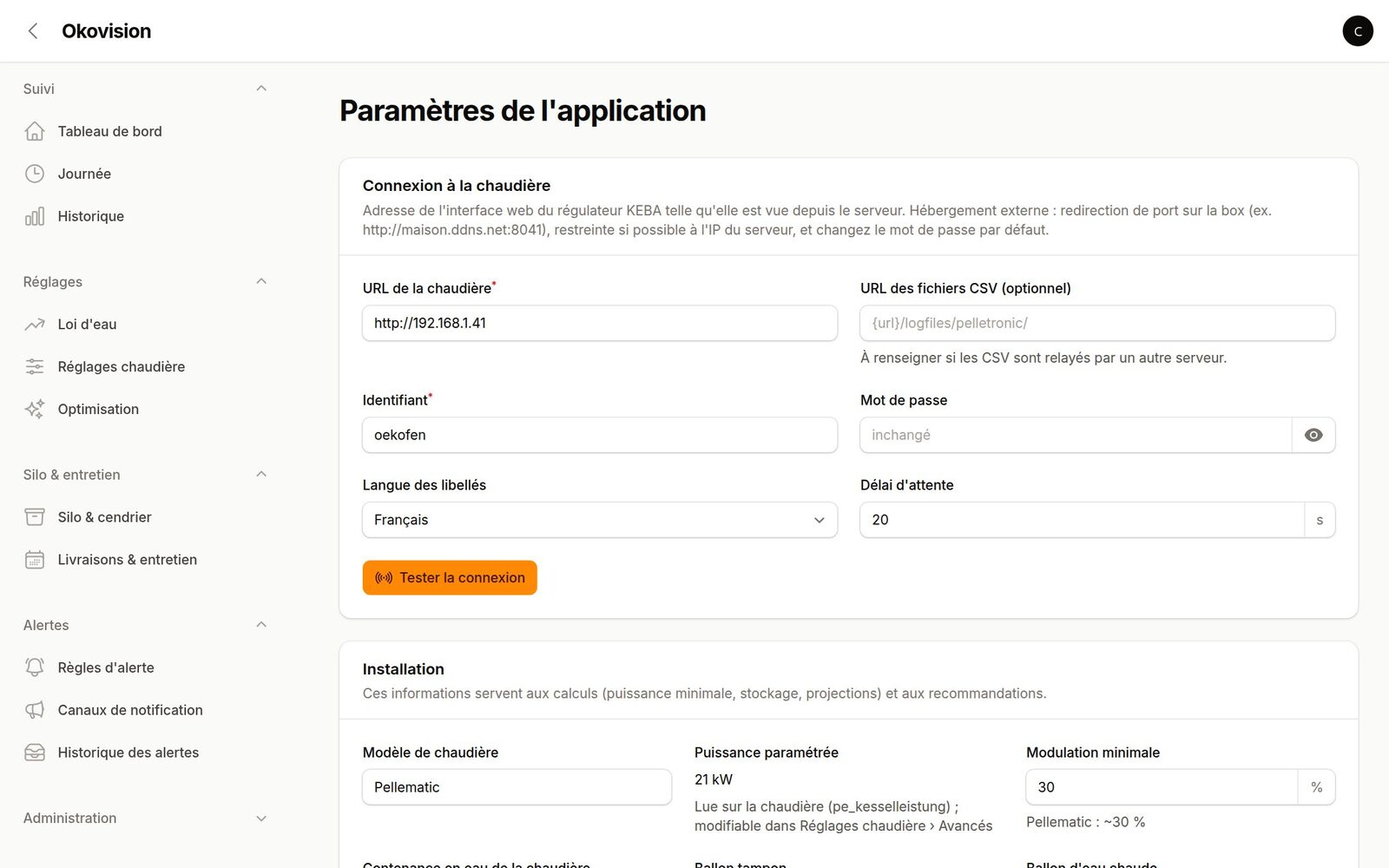
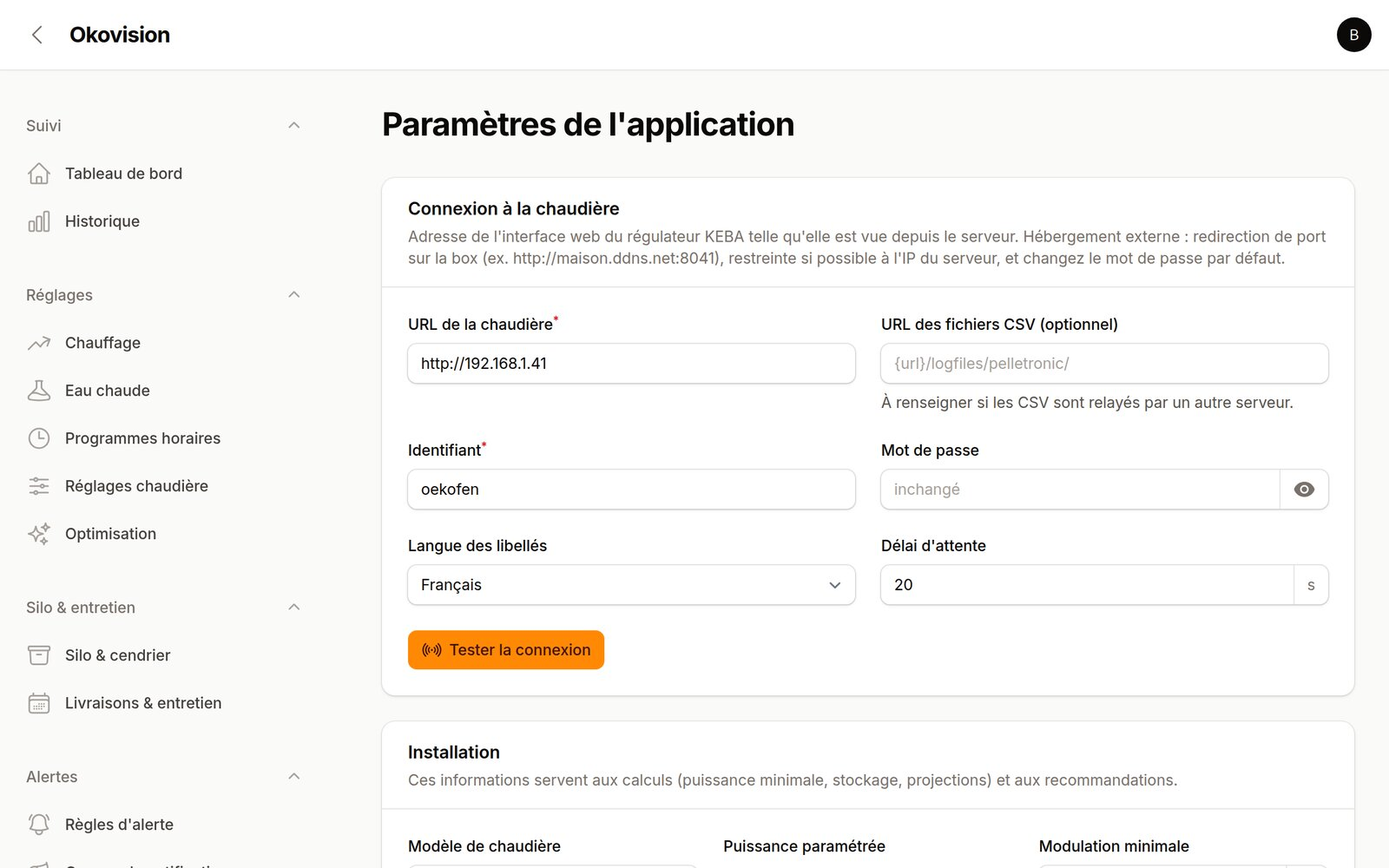
Site : copies d'écran à jour, textes de réglage enrichis
- Copies d'écran refaites sur l'interface actuelle (échelle 2, dates en
  français) ; nouvelles images de la journée de chauffage et du ballon
  d'eau chaude ; tableau de bord avec les indicateurs sur deux lignes.
- Présentation : état de la chaudière, frise des états, blocs
  « Comprendre quand et pourquoi le chauffage s'arrête », « Régler la
  loi d'eau », « Eau chaude et légionelles », réglages commentés.
- Régler sa chaudière : thermostat d'ambiance et limites de chauffe
  (règles du manuel ÖkoFEN, exemple de la coupure de 16 h), programmes
  horaires, influence de la sonde (coefficient, influence à 0 pendant le
  réglage), gestion du ballon (plages, postfonctionnement, priorité,
  65 °C), charges d'eau chaude à froid ; sources ÖkoFEN ajoutées.

diff --git a/site/reglage.html b/site/reglage.html
@@ -4,13 +4,13 @@
 <meta charset="utf-8">
 <meta name="viewport" content="width=device-width, initial-scale=1">
 <title>Régler sa chaudière à granulés – Okovision</title>
-<meta name="description" content="Principes de réglage d'une chaudière à granulés Okofen : loi d'eau, sonde d'ambiance, cycles courts, hystérésis, puissance, ballon tampon, eau chaude et légionelles. Avec sources.">
+<meta name="description" content="Principes de réglage d'une chaudière à granulés Okofen : loi d'eau, sonde d'ambiance, thermostat et limites de chauffe, programmes horaires, cycles courts, puissance, ballon tampon, eau chaude et légionelles. D'après le manuel ÖkoFEN et des mesures réelles.">
 <link rel="canonical" href="https://bertrandgorge.github.io/okovision/reglage.html">
 <meta property="og:type" content="website">
 <meta property="og:site_name" content="Okovision">
 <meta property="og:locale" content="fr_FR">
 <meta property="og:title" content="Régler sa chaudière à granulés – Okovision">
-<meta property="og:description" content="Principes de réglage d'une chaudière à granulés Okofen : loi d'eau, sonde d'ambiance, cycles courts, hystérésis, puissance, ballon tampon, eau chaude et légionelles. Avec sources.">
+<meta property="og:description" content="Principes de réglage d'une chaudière à granulés Okofen : loi d'eau, sonde d'ambiance, thermostat et limites de chauffe, programmes horaires, cycles courts, puissance, ballon tampon, eau chaude et légionelles. D'après le manuel ÖkoFEN et des mesures réelles.">
 <meta property="og:url" content="https://bertrandgorge.github.io/okovision/reglage.html">
 <meta property="og:image" content="https://bertrandgorge.github.io/okovision/assets/og-image.jpg">
 <meta property="og:image:width" content="1200">
@@ -18,7 +18,7 @@
 <meta property="og:image:alt" content="Okovision : tableau de bord de suivi d'une chaudière à granulés Okofen">
 <meta name="twitter:card" content="summary_large_image">
 <meta name="twitter:title" content="Régler sa chaudière à granulés – Okovision">
-<meta name="twitter:description" content="Principes de réglage d'une chaudière à granulés Okofen : loi d'eau, sonde d'ambiance, cycles courts, hystérésis, puissance, ballon tampon, eau chaude et légionelles. Avec sources.">
+<meta name="twitter:description" content="Principes de réglage d'une chaudière à granulés Okofen : loi d'eau, sonde d'ambiance, thermostat et limites de chauffe, programmes horaires, cycles courts, puissance, ballon tampon, eau chaude et légionelles. D'après le manuel ÖkoFEN et des mesures réelles.">
 <meta name="twitter:image" content="https://bertrandgorge.github.io/okovision/assets/og-image.jpg">
 <meta name="theme-color" content="#ea6a0c">
 <link rel="icon" href="assets/favicon.svg" type="image/svg+xml">
@@ -42,7 +42,8 @@
     <p class="eyebrow">Guide</p>
     <h1>Les principes de réglage d'une chaudière à granulés</h1>
     <p class="lead">Une chaudière à granulés est plus efficace et plus propre quand elle brûle longtemps à puissance stable.
-      Ce guide explique les réglages qui comptent : loi d'eau, sonde d'ambiance, cycles du brûleur, eau chaude.
+      Ce guide explique les réglages qui comptent : loi d'eau, sonde d'ambiance, ce qui arrête le chauffage, programmes horaires, cycles du brûleur, eau chaude.
+      Les règles du régulateur viennent du manuel ÖkoFEN du Pelletronic Touch, vérifiées sur les mesures d'une installation réelle.
       Les exemples portent sur le régulateur Okofen Pelletronic Touch, mais les principes valent pour la plupart des chaudières.</p>
   </div>
 
@@ -55,6 +56,8 @@
         <li><a href="#loi-d-eau">La loi d'eau</a></li>
         <li><a href="#methode">Méthode de réglage</a></li>
         <li><a href="#ambiance">Sonde d'ambiance</a></li>
+          <li><a href="#arret">Quand le chauffage s'arrête</a></li>
+          <li><a href="#programmes">Programmes horaires</a></li>
         <li><a href="#leviers">Limiter les cycles</a></li>
         <li><a href="#ecs">Eau chaude et légionelles</a></li>
         <li><a href="#entretien">Entretien</a></li>
@@ -79,7 +82,7 @@
           <tr><td>Post-combustion</td><td>Arrêt de la vis, puis ventilation pendant environ 15 minutes pour brûler les restes. Une partie de la chaleur du foyer part alors par la cheminée.</td></tr>
         </tbody>
       </table></div>
-      <figure class="shot"><img src="assets/img/journee-combustion.jpg" width="1584" height="674" loading="lazy" alt="Une journée d'hiver avec une vingtaine de cycles courts du brûleur">
+      <figure class="shot"><img src="assets/img/journee-combustion.jpg" width="1792" height="898" loading="lazy" alt="Une journée d'hiver avec une vingtaine de cycles courts du brûleur">
         <figcaption>Une journée d'hiver vue par Okovision : après la relance du matin, le brûleur enchaîne des cycles d'une vingtaine de minutes.</figcaption></figure>
 
       <h2 id="cycles">2. Pourquoi éviter les cycles courts</h2>
@@ -146,25 +149,38 @@
 
       <h2 id="methode">4. Méthode de réglage</h2>
       <ol class="steps">
-        <li><strong>Une seule modification par jour</strong>, par petits pas. La maison réagit lentement : il faut au moins 24 h pour juger un changement.</li>
+        <li><strong>Fixer d'abord la consigne confort</strong> : chaque degré de consigne décale toute la courbe de (1 + pente) °C.</li>
+          <li><strong>Une seule modification par jour</strong>, par petits pas. La maison réagit lentement : il faut au moins 24 h pour juger un changement.</li>
         <li><strong>Par temps doux (entre +5 et +15 °C), on règle le pied</strong> : pièce trop chaude, −2 à −5 °C ; pièce trop froide, +2 à +5 °C.</li>
         <li><strong>Par temps froid (sous +5 °C), on règle la pente</strong> : trop chaud, −0,1 à −0,2 ; trop froid, +0,1 à +0,2.</li>
-        <li>Pendant le réglage, réduire l'influence de la sonde d'ambiance pour voir l'effet de la courbe seule.</li>
+        <li><strong>Pendant le réglage, mettre l'influence de la sonde d'ambiance à 0</strong> : c'est elle qui masque les défauts de la courbe en ajoutant
+          ou retirant quelques degrés au départ. La pièce reflète alors la courbe seule. Relever l'hystérésis d'ambiance à 2–3 °C seulement si le thermostat
+          coupe le circulateur pendant l'essai (courbe trop haute). Une fois la pièce stable à la consigne, remettre l'influence à 2–3.</li>
         <li>Ouvrir en grand les robinets thermostatiques de la pièce de référence. Ils servent au réglage fin pièce par pièce, pas au réglage principal.</li>
         <li>Viser la <strong>température de départ la plus basse qui assure le confort</strong> : moins de pertes de distribution, une vanne mélangeuse moins sollicitée, une demande plus régulière.</li>
       </ol>
       <p>Un guide de SuisseEnergie estime qu'une courbe bien réglée économise 4 à 6 % d'énergie. Il recommande de régler une première fois par temps froid
         (un peu en dessous de 0 °C), puis par temps doux (un peu au-dessus de 10 °C).</p>
       <div class="tip">
-        <p>Dans Okovision, la page <em>Loi d'eau</em> affiche les consignes réellement calculées par la chaudière, colorées selon l'écart d'ambiance.
+        <p>Dans Okovision, la page <em>Chauffage</em> affiche les consignes réellement calculées par la chaudière, colorées selon l'écart d'ambiance.
           Elle propose une <strong>courbe apprise</strong> (pente et pied) qui reproduit les besoins observés, en tenant compte de la correction par la sonde d'ambiance.</p>
       </div>
-      <figure class="shot"><img src="assets/img/courbe-apprise.jpg" width="774" height="1058" loading="lazy" alt="Panneau « Courbe apprise » : pente 1,6, pied 33,8 °C et méthode de réglage" style="max-width:420px">
+      <figure class="shot"><img src="assets/img/courbe-apprise.jpg" width="872" height="924" loading="lazy" alt="Panneau « Courbe apprise » : pente et pied proposés d'après les consignes réellement calculées" style="max-width:420px">
       </figure>
 
       <h2 id="ambiance">5. La sonde d'ambiance</h2>
       <p>Avec une sonde d'ambiance, le paramètre <strong>influence</strong> corrige le départ selon l'écart entre la consigne et la température mesurée.
-        Avec une influence de 3, une pièce à 19 °C pour 20 °C de consigne ajoute 3 °C au départ.</p>
+        C'est un <strong>coefficient sans unité</strong> : des degrés de départ par degré d'écart, dans les deux sens. Avec une influence de 3, une pièce
+        à 19 °C pour 20 °C de consigne ajoute 3 °C au départ ; une pièce à 20,5 °C en retire 1,5 °C.</p>
+      <div class="table-wrap"><table>
+        <thead><tr><th>Influence</th><th>Effet</th></tr></thead>
+        <tbody>
+          <tr><td>0</td><td>La sonde n'agit plus sur le départ (elle sert encore au thermostat, voir plus bas). À utiliser pendant le réglage de la loi d'eau.</td></tr>
+          <tr><td>1 (usine)</td><td>Correction douce, si la loi d'eau est déjà juste.</td></tr>
+          <tr><td>2–3</td><td>Correction franche, utile avec une sonde bien placée.</td></tr>
+          <tr><td>4–5</td><td>Risque d'oscillations : la pièce réagit avec plusieurs heures de retard.</td></tr>
+        </tbody>
+      </table></div>
       <p>La sonde doit seulement <strong>affiner</strong>. Si elle corrige beaucoup en permanence, c'est que la courbe est mal réglée.
         Sur l'installation d'exemple, la sonde ajoutait en moyenne +4,9 °C au départ par 0 °C extérieur : la pente était trop faible.
         Une courbe bien réglée laisse un écart proche de zéro.</p>
@@ -173,7 +189,58 @@
       <p>Avec des convecteurs à ailettes, peu inertes et dont la puissance dépend fortement de la température de l'eau, les pentes usuelles vont de 1,2 à 1,8.
         Un plancher chauffant demande une pente beaucoup plus faible.</p>
 
-      <h2 id="leviers">6. Limiter les cycles courts</h2>
+      <h2 id="arret">6. Quand le chauffage s'arrête : thermostat et limites de chauffe</h2>
+      <p>Même en pleine plage de confort, le circulateur peut rester arrêté pendant des heures. Deux règles du régulateur en décident,
+        et elles s'ajoutent : le chauffage ne tourne que si l'extérieur est sous la limite <em>et</em> la pièce sous son seuil de relance (manuel ÖkoFEN E1389FR, p. 21 et 23).</p>
+      <h3>Le thermostat d'ambiance (hystérésis d'ambiance)</h3>
+      <p>Avec une sonde d'ambiance, le circuit s'arrête quand la pièce dépasse <strong>consigne + hystérésis</strong>, et ne repart que
+        lorsqu'elle est redescendue <strong>1 °C sous ce seuil</strong>. Le tunnel garde toujours 1 °C de large ; l'hystérésis le déplace seulement.</p>
+      <div class="table-wrap"><table>
+        <thead><tr><th>Consigne 20 °C</th><th>Arrêt</th><th>Relance</th></tr></thead>
+        <tbody>
+          <tr><td>Hystérésis 0 (usine)</td><td>20,0 °C</td><td>19,0 °C</td></tr>
+          <tr><td>Hystérésis 1 °C</td><td>21,0 °C</td><td>20,0 °C</td></tr>
+          <tr><td>Hystérésis 1,5 °C</td><td>21,5 °C</td><td>20,5 °C</td></tr>
+        </tbody>
+      </table></div>
+      <p>À 0, l'hystérésis n'est pas « désactivée » : le circuit se coupe dès la consigne atteinte et attend que la pièce ait perdu un degré.
+        Le manuel ne la conseille à 0 qu'en cas de forts apports dans la pièce de la sonde (soleil, poêle) ; sinon, une valeur plus grande est recommandée.
+        Avec 1 à 1,5 °C, le thermostat ne coupe plus qu'exceptionnellement et c'est la loi d'eau, affinée par la sonde, qui tient la pièce.
+        Pour garder la même température moyenne, on baisse alors la consigne d'environ un demi-degré.</p>
+      <h3>Les limites de chauffe</h3>
+      <p>Indépendamment de la pièce, le circuit s'arrête quand la <strong>température extérieure moyennée</strong> dépasse la limite de la plage en cours
+        (confort ou réduit), et ne repart que <strong>2 °C en dessous</strong>. La moyenne glissante (60 min par exemple) évite de couper au moindre rayon de soleil sur la sonde.</p>
+      <p>Pour la limite de réduit, le guide d'entretien ÖkoFEN donne ces repères : il est souvent inutile de chauffer la nuit, puisque la maison est chaude
+        en début de nuit et que la chaudière redémarre de toute façon avant la plage de confort.</p>
+      <div class="table-wrap"><table>
+        <thead><tr><th>Habitat</th><th>Limite de réduit</th></tr></thead>
+        <tbody>
+          <tr><td>Fortement isolé, forte inertie</td><td>0 °C</td></tr>
+          <tr><td>Bien isolé</td><td>5 °C</td></tr>
+          <tr><td>Moyennement isolé</td><td>10 °C</td></tr>
+          <tr><td>Peu ou très peu isolé</td><td>14 °C</td></tr>
+        </tbody>
+      </table></div>
+      <div class="tip">
+        <p><strong>Exemple réel.</strong> Une coupure de 30 minutes ajoutée au programme (16:00–16:30) a basculé le circuit en réduit (consigne 18 °C, pièce à 19,6 °C : arrêt).
+          À 16:30, retour en confort à 20 °C avec une hystérésis à 0 : relance seulement sous 19 °C. La pièce est restée entre 19,2 et 19,6 °C, et le chauffage
+          ne s'est pas rallumé de la soirée ni de la nuit. Le programme soirée n'y pouvait rien : il ne fait que forcer le confort.</p>
+      </div>
+      <figure class="shot"><img src="assets/img/chauffage-journee.jpg" width="1792" height="1554" loading="lazy" alt="Journée de chauffage : la pièce reste au-dessus du seuil de relance après la coupure de 16:00, le circulateur ne repart pas">
+        <figcaption>Cette journée dans Okovision : à 16:00, le passage en réduit arrête la pompe (frise du bas) ; à 16:30, la pièce est au-dessus de la ligne de relance et le chauffage ne repart pas.</figcaption></figure>
+
+      <h2 id="programmes">7. Programmes horaires</h2>
+      <ul>
+        <li><strong>Ne pas hacher les plages</strong> de confort et de réduit (guide d'entretien ÖkoFEN). Chaque bascule peut couper le circuit, qui ne repart pas forcément,
+          et chaque relance coûte un démarrage du brûleur. Sur plancher chauffant, des plages d'au moins 6 h.</li>
+        <li><strong>Inutile d'avancer le début d'une plage</strong> : la durée d'anticipation fait démarrer la chauffe assez tôt pour être à la consigne à l'heure indiquée (manuel E1389FR, p. 23).
+          Si la maison est froide au réveil, allongez l'anticipation plutôt que la plage.</li>
+        <li><strong>Confort au plus 21 °C</strong> : chaque degré de plus coûte environ 7 % de granulés. Écart confort / réduit d'au plus 5 °C sur radiateurs, 2 °C sur plancher chauffant.</li>
+        <li>Le <strong>programme soirée</strong> force le confort jusqu'à une heure donnée puis revient seul au programme ; le <strong>programme vacances</strong> remplace
+          le programme par une température réduite entre deux dates, à faire finir 24 h avant le retour.</li>
+      </ul>
+
+      <h2 id="leviers">8. Limiter les cycles courts</h2>
       <p>Du plus simple au plus structurant :</p>
       <h3>Élargir l'hystérésis de redémarrage</h3>
       <p>Sans ballon tampon, la seule réserve d'énergie est l'eau de la chaudière. Avec une coupure à 80 °C et une hystérésis de 5 K, le brûleur redémarre dès 75 °C.
@@ -185,8 +252,11 @@
         La chaudière peut alors brûler en continu une grande partie de la saison. Ce réglage technicien se fait avec l'installateur,
         en vérifiant la puissance nécessaire par grand froid et pour la relance après un réduit de nuit.</p>
       <h3>Regrouper l'eau chaude</h3>
-      <p>Une charge d'eau chaude isolée provoque un cycle complet, surtout en été. Une hystérésis ECS plus large (10 K) et une ou deux plages horaires
-        alignées sur les heures de chauffage regroupent les besoins dans un même cycle.</p>
+      <p>Une charge d'eau chaude isolée provoque un cycle complet, avec un allumage à froid. Sur l'installation d'exemple, à mi-saison,
+        <strong>21 des 48 charges d'un mois</strong> ont démarré la chaudière pour le ballon seul, parfois pour quelques minutes de combustion.
+        Une hystérésis ECS plus large (10 K), des plages courtes calées sur le démarrage du chauffage, et une seule charge par jour les jours doux
+        regroupent les besoins dans les cycles du chauffage. Avec la priorité ECS sur « Arrêt », ballon et chauffage sont alimentés ensemble,
+        ce qui allonge les combustions.</p>
       <h3>Utiliser l'inertie de la maison</h3>
       <p>À mi-saison, on peut alterner de longues périodes de chauffe et des pauses, tant que l'ambiance reste dans une bande de confort.
         Les murs servent alors de stockage. Okovision propose ce pilotage « par blocs » en option expérimentale, désactivée et en simulation par défaut.</p>
@@ -195,10 +265,10 @@
         La règle usuelle est de <strong>25 à 50 L par kW</strong>. En Allemagne, les aides publiques aux chaudières à granulés exigent au moins 30 L par kW.
         Un ballon de 600 L chargé entre 60 et 80 °C stocke environ 14 kWh. L'investissement est réel (coût, place, pertes à bien isoler) :
         il se justifie surtout quand la chaudière est nettement surdimensionnée.</p>
-      <figure class="shot"><img src="assets/img/besoin-puissance.jpg" width="774" height="704" loading="lazy" alt="Besoin de la maison par température extérieure, comparé aux puissances de la chaudière" style="max-width:520px">
+      <figure class="shot"><img src="assets/img/besoin-puissance.jpg" width="872" height="986" loading="lazy" alt="Besoin de la maison par température extérieure, comparé aux puissances de la chaudière" style="max-width:520px">
         <figcaption>Le besoin moyen (orange) passe sous la puissance minimale (rouge) dès 9 °C extérieur : c'est la zone des cycles courts.</figcaption></figure>
 
-      <h2 id="ecs">7. Eau chaude sanitaire et légionelles</h2>
+      <h2 id="ecs">9. Eau chaude sanitaire et légionelles</h2>
       <p>Les légionelles se développent entre 25 et 45 °C environ. Une eau chaude stockée à 40 °C se situe dans cette plage. Les recommandations sanitaires françaises :</p>
       <ul>
         <li>Produire l'eau chaude à <strong>55 °C au moins</strong> en sortie de ballon, en permanence.</li>
@@ -206,9 +276,25 @@
           La fonction anti-légionelles du Touch le fait automatiquement, par exemple une fois par semaine.</li>
         <li>Limiter l'eau à <strong>50 °C aux points de puisage</strong> des salles de bains (mitigeur thermostatique) pour éviter les brûlures.</li>
       </ul>
-      <p>Une consigne plus haute stocke aussi plus d'énergie dans le ballon, ce qui espace les charges en été.</p>
+      <p>Une consigne plus haute stocke aussi plus d'énergie dans le ballon, ce qui espace les charges en été.
+        Le cycle anti-légionelles du Touch monte le ballon à <strong>65 °C</strong> le jour choisi (manuel E1389FR, p. 60).</p>
+      <h3>Comment la chaudière gère le ballon</h3>
+      <ul>
+        <li>Pendant une plage horaire, elle vise la <strong>consigne</strong> et relance une charge dès que le ballon passe sous <em>consigne − hystérésis</em>.
+          En dehors, elle ne recharge que sous la <strong>T mini</strong>, moins l'hystérésis : avec 30 °C et 10 K, le ballon peut descendre à 20 °C la nuit.</li>
+        <li>Contrairement au chauffage, <strong>il n'y a pas d'anticipation</strong> : la charge démarre au début de la plage, et le brûleur doit d'abord s'allumer.
+          Mesuré sur l'installation d'exemple : eau chaude environ 40 minutes après le début de plage (10 min chaudière chaude, plus d'une heure à froid).
+          Faites commencer la plage au moins trois quarts d'heure avant la première douche, et finir juste après la dernière, pour éviter une recharge inutile.</li>
+        <li>Le <strong>postfonctionnement</strong> laisse tourner la pompe du ballon après la charge (10 min par défaut) pour y vider la chaleur de la chaudière.
+          Sans ballon tampon, la chaudière est alors vers 80 °C : le ballon monte d'environ 9 K au-dessus de la consigne (61 °C pour 52 °C demandés).
+          C'est de l'énergie récupérée, et une désinfection gratuite ; un mitigeur thermostatique aux points de puisage limite le risque de brûlure.
+          Quand le chauffage tourne, 3 à 5 min suffisent : la chaleur résiduelle part dans les radiateurs.</li>
+        <li><strong>Priorité ECS</strong> sur « Marche » (usine) : le ballon d'abord, le chauffage coupé pendant la charge. Sur « Arrêt » : les deux ensemble.</li>
+      </ul>
+      <figure class="shot"><img src="assets/img/eau-chaude.jpg" width="1792" height="1378" loading="lazy" alt="Ballon d'eau chaude un jour de cycle anti-légionelles : consigne 65 °C pendant la plage, charges du ballon dans la frise">
+        <figcaption>Un jour de cycle anti-légionelles dans Okovision : consigne à 65 °C pendant la plage, seuil de relance 5 K plus bas, charges visibles dans la frise.</figcaption></figure>
 
-      <h2 id="entretien">8. Entretien</h2>
+      <h2 id="entretien">10. Entretien</h2>
       <ul>
         <li><strong>Entretien annuel</strong> par un professionnel : nettoyage, réglage de la combustion, contrôle.</li>
         <li><strong>Ramonage</strong> du conduit de fumée au moins une fois par an, parfois deux selon le règlement sanitaire départemental. Gardez le certificat.</li>
@@ -222,6 +308,18 @@
       </div>
 
       <h2 id="sources">Sources</h2>
+      <h3>Régulation ÖkoFEN Pelletronic Touch</h3>
+      <ul class="sources">
+        <li><span class="src-title">ÖkoFEN, « Manuel d'utilisation et d'installation Pelletronic Touch » (E1389FR, V2.00)</span> : modes, programmes, soirée et vacances,
+          courbe et limites de chauffe, anticipation, hystérésis d'ambiance, réglages ECS, règles système.
+          <a href="https://forums.futura-sciences.com/attachments/habitat-bioclimatique-isolation-chauffage/424788d1604928346-retours-dexperience-chaudieres-okofen-pelletronic-touch-compr.pdf">PDF</a>.</li>
+        <li><span class="src-title">ÖkoFEN, « Operating Manual AutoPellet PE(S)(K)(B) 10–56 », partie installateur (PE 567 USA 1.1)</span> :
+          <a href="https://www.maineenergysystems.com/wp-content/uploads/2015/11/TechnicianStartUpTouch.pdf">PDF</a>.</li>
+        <li><span class="src-title">ÖkoFEN France, « Guide pratique – Entretien annuel des chaudières PE(S)(K)(B) 8-56 »</span>, chapitre « Contrôles de la régulation » :
+          <a href="https://forums.futura-sciences.com/attachments/habitat-bioclimatique-isolation-chauffage/363141d1522074139-retours-dexperience-chaudieres-okofen-manuel_entretien-comparatif-touch.pdf">PDF</a>.</li>
+        <li><span class="src-title">Synthèse des règles de la régulation, avec les vérifications faites sur les mesures</span> :
+          <a href="https://github.com/bertrandgorge/okovision/blob/master/docs/REGULATION-OKOFEN.md">docs/REGULATION-OKOFEN.md</a>.</li>
+      </ul>
       <h3>Cycles, rendement et stockage</h3>
       <ul class="sources">
         <li><span class="src-title">Carlon E. et al., « Efficiency and operational behaviour of small-scale pellet boilers installed in residential buildings »</span>,

diff --git a/site/index.html b/site/index.html
@@ -49,8 +49,8 @@
         <a class="btn" href="reglage.html">Les principes de réglage</a>
       </div>
       <figure class="shot">
-        <img src="assets/img/dashboard.jpg" width="1600" height="1000" alt="Tableau de bord d'Okovision : températures, granulés du jour, silo, cendrier et courbes de la journée">
-        <figcaption>Le tableau de bord : état en direct, indicateurs du jour, niveau du silo et du cendrier, courbes de la journée.</figcaption>
+        <img src="assets/img/dashboard.jpg" width="1600" height="1000" alt="Tableau de bord d'Okovision : état de la chaudière, indicateurs du jour, silo, cendrier et journée choisie">
+        <figcaption>Le tableau de bord : état de la chaudière (et pourquoi le chauffage tourne ou non), indicateurs du jour, silo, cendrier, puis la journée choisie.</figcaption>
       </figure>
     </div>
   </section>
@@ -82,32 +82,59 @@
       <div class="feature">
         <div class="text">
           <h3>La journée minute par minute</h3>
-          <p>Températures (chaudière, départ, ECS, extérieur, ambiance), frise des états du brûleur et des pompes, combustion
-            (flamme, ventilateurs, vis). Les trois graphiques sont synchronisés et zoomables.</p>
+          <p>Sur le tableau de bord, choisissez un jour : températures (chaudière, départ, ECS, extérieur, ambiance) et, sur le même axe
+            horaire, la frise des états du brûleur et des pompes ; en dessous, la combustion (flamme, ventilateurs, vis). Tout est zoomable et synchronisé.</p>
           <ul>
             <li>Chaque cycle brûleur est détecté et coloré, en rouge pour un allumage à froid.</li>
-            <li>Synthèse du jour : granulés (dont eau chaude), cycles, temps de combustion, DJU.</li>
-            <li>Les mois archivés restent consultables : l'archive est relue à la volée.</li>
+            <li>L'encadré « État de la chaudière » explique en direct pourquoi le chauffage tourne ou est arrêté (limite de chauffe, thermostat d'ambiance, plage horaire) et quand il repartira.</li>
+            <li>Synthèse du jour : granulés (dont eau chaude), cycles, DJU. Les mois archivés restent consultables.</li>
           </ul>
         </div>
         <div>
-          <figure class="shot"><img src="assets/img/journee-temperatures.jpg" width="1584" height="764" loading="lazy" alt="Courbes de températures d'une journée d'hiver avec les cycles du brûleur"></figure>
-          <figure class="shot" style="margin-top:16px"><img src="assets/img/journee-combustion.jpg" width="1584" height="674" loading="lazy" alt="Graphique de combustion : température de flamme, ventilateurs et vis"></figure>
+          <figure class="shot"><img src="assets/img/journee-temperatures.jpg" width="1792" height="1378" loading="lazy" alt="Courbes de températures d'une journée d'hiver avec les cycles du brûleur et la frise des états du brûleur et des pompes"></figure>
+          <figure class="shot" style="margin-top:16px"><img src="assets/img/journee-combustion.jpg" width="1792" height="898" loading="lazy" alt="Graphique de combustion : température de flamme, ventilateurs et vis"></figure>
         </div>
       </div>
 
       <div class="feature reverse">
         <div class="text">
-          <h3>Éditeur visuel de la loi d'eau</h3>
-          <p>La courbe de chauffe se règle en faisant glisser deux poignées (à −5 °C et +15 °C extérieur) ou avec des curseurs.
-            Okovision utilise la formule exacte du régulateur, identifiée sur 12 ans de consignes.</p>
+          <h3>Comprendre quand et pourquoi le chauffage s'arrête</h3>
+          <p>La page <em>Chauffage</em> trace la journée avec les réglages en vigueur à chaque instant : la température extérieure moyennée
+            face aux <strong>limites de chauffe</strong>, la pièce face à sa consigne et au <strong>tunnel du thermostat</strong>
+            (arrêt au-dessus de consigne + hystérésis, relance 1 °C plus bas), les plages confort, le brûleur et les pompes.</p>
           <ul>
-            <li>Nuage des consignes réellement calculées par la chaudière, coloré selon l'écart d'ambiance (bleu : trop froid, rouge : trop chaud).</li>
-            <li><strong>Courbe apprise</strong> : la pente et le pied qui reproduisent les consignes réellement nécessaires.</li>
-            <li>Application directe à la chaudière.</li>
+            <li>On y voit tout de suite pourquoi le circulateur ne repart pas : pièce encore au-dessus du seuil de relance, ou temps trop doux.</li>
+            <li>Au survol d'une courbe, les réglages qui la gouvernent s'illuminent ; chaque réglage est expliqué, avec sa valeur conseillée.</li>
           </ul>
         </div>
-        <figure class="shot"><img src="assets/img/loi-d-eau.jpg" width="1600" height="1000" loading="lazy" alt="Éditeur de la loi d'eau avec poignées et nuage de consignes"></figure>
+        <figure class="shot"><img src="assets/img/chauffage-journee.jpg" width="1792" height="1554" loading="lazy" alt="Journée de chauffage : pièce, consigne et tunnel du thermostat, température extérieure et limites de chauffe, frise du brûleur et des pompes"></figure>
+      </div>
+
+      <div class="feature">
+        <div class="text">
+          <h3>Régler la loi d'eau</h3>
+          <p>La courbe de chauffe, calculée avec la formule exacte du régulateur (identifiée sur 12 ans de consignes), et à côté ses réglages :
+            pente, pied, influence de la sonde d'ambiance, départs mini et maxi.</p>
+          <ul>
+            <li>Nuage des consignes réellement calculées par la chaudière, coloré selon l'écart d'ambiance (bleu : trop froid, rouge : trop chaud).</li>
+            <li><strong>Courbe apprise</strong> : la pente et le pied qui annuleraient la correction permanente de la sonde d'ambiance.</li>
+            <li>Méthode de réglage pas à pas, et application directe à la chaudière.</li>
+          </ul>
+        </div>
+        <figure class="shot"><img src="assets/img/loi-d-eau.jpg" width="1792" height="1520" loading="lazy" alt="Loi d'eau : courbe actuelle, nuage des consignes calculées et réglages pente, pied et influence de la sonde"></figure>
+      </div>
+
+      <div class="feature reverse">
+        <div class="text">
+          <h3>Eau chaude et légionelles</h3>
+          <p>La page <em>Eau chaude</em> trace le ballon jour par jour : température, plages horaires, consigne, T mini hors plages et seuil de relance,
+            avec les charges du brûleur et des pompes. Elle suit les <strong>désinfections</strong> (au moins 10 min à 60 °C) et le prochain cycle anti-légionelles.</p>
+          <ul>
+            <li>Réglages commentés : consigne, T mini, hystérésis, postfonctionnement (qui explique pourquoi le ballon dépasse la consigne), priorité, jour anti-légionelles.</li>
+            <li>Programmes de l'eau chaude et du bouclage, avec le délai de charge mesuré sur vos propres charges : combien de temps avant la douche faire commencer la plage.</li>
+          </ul>
+        </div>
+        <figure class="shot"><img src="assets/img/eau-chaude.jpg" width="1792" height="1378" loading="lazy" alt="Ballon d'eau chaude sur une journée de cycle anti-légionelles : température, consigne à 65 °C, plages et charges"></figure>
       </div>
 
       <div class="feature">
@@ -120,12 +147,12 @@
             <li>Pilotage expérimental « chauffage par blocs » qui utilise l'inertie de la maison (désactivé et en simulation par défaut).</li>
           </ul>
         </div>
-        <figure class="shot"><img src="assets/img/recommandations.jpg" width="1584" height="968" loading="lazy" alt="Recommandations : réduire la puissance paramétrée, installer un ballon tampon"></figure>
+        <figure class="shot"><img src="assets/img/recommandations.jpg" width="1792" height="1410" loading="lazy" alt="Recommandations : réduire la puissance paramétrée, installer un ballon tampon"></figure>
       </div>
 
       <div class="two-shots">
-        <figure class="shot"><img src="assets/img/besoin-puissance.jpg" width="774" height="704" loading="lazy" alt="Besoin de la maison comparé aux puissances minimale et nominale de la chaudière"><figcaption>Besoin de la maison et puissances de la chaudière : sous la ligne rouge, la chaudière ne peut que fonctionner par cycles.</figcaption></figure>
-        <figure class="shot"><img src="assets/img/signature.jpg" width="774" height="956" loading="lazy" alt="Signature énergétique : consommation par jour en fonction de la température extérieure"><figcaption>Signature énergétique par saison : déperditions de la maison et température de non-chauffage.</figcaption></figure>
+        <figure class="shot"><img src="assets/img/besoin-puissance.jpg" width="872" height="986" loading="lazy" alt="Besoin de la maison comparé aux puissances minimale et nominale de la chaudière"><figcaption>Besoin de la maison et puissances de la chaudière : sous la ligne rouge, la chaudière ne peut que fonctionner par cycles.</figcaption></figure>
+        <figure class="shot"><img src="assets/img/signature.jpg" width="872" height="1274" loading="lazy" alt="Signature énergétique : consommation par jour en fonction de la température extérieure"><figcaption>Signature énergétique par saison : déperditions de la maison et température de non-chauffage.</figcaption></figure>
       </div>
 
       <div class="feature reverse">
@@ -134,7 +161,7 @@
           <p>Consommation chauffage et eau chaude, cycles et allumages à froid, distribution des durées de cycle, et comparaison
             des saisons en kg, en euros, en DJU et en kg/DJU. Ce dernier indicateur permet de comparer une année à l'autre quelle que soit la météo.</p>
         </div>
-        <figure class="shot"><img src="assets/img/saisons.jpg" width="1584" height="1250" loading="lazy" alt="Comparaison mensuelle des saisons et tableau des consommations"></figure>
+        <figure class="shot"><img src="assets/img/saisons.jpg" width="1792" height="1840" loading="lazy" alt="Comparaison mensuelle des saisons et tableau des consommations"></figure>
       </div>
 
       <div class="feature">
@@ -158,7 +185,7 @@
           calculée sur les années précédentes. Il en déduit la <strong>date à laquelle le silo sera vide</strong>, pour commander à temps,
           et celle à laquelle le cendrier sera plein. Si le cendrier a dépassé sa capacité avant d'être vidé, ce débordement apparaît en rouge.</p>
       </div>
-      <figure class="shot" style="margin-top:16px"><img src="assets/img/silo-projection.jpg" width="1216" height="469" loading="lazy" alt="Graphique du stock de granulés et du remplissage du cendrier sur un an, avec leur projection jusqu'à l'épuisement du silo"><figcaption>Stock du silo (vert) et remplissage du cendrier (gris, débordement en rouge), puis leur projection en pointillés : ici, silo vide mi-février et cendrier plein fin décembre.</figcaption></figure>
+      <figure class="shot" style="margin-top:16px"><img src="assets/img/silo-projection.jpg" width="1792" height="978" loading="lazy" alt="Graphique du stock de granulés et du remplissage du cendrier sur un an, avec leur projection jusqu'à l'épuisement du silo"><figcaption>Stock du silo (vert) et remplissage du cendrier (gris, débordement en rouge), puis leur projection en pointillés : ici, silo vide mi-février et cendrier plein fin décembre.</figcaption></figure>
 
       <div class="prose" style="margin-top:32px">
         <h3>Comparer les lots de granulés</h3>
@@ -168,16 +195,18 @@
           toute la chaleur reste dans la chaudière. Sa montée en température, rapportée aux kilos brûlés, indique l'énergie réellement récupérée par kilo.
           Le résultat est un indice, 100 % correspondant au lot médian, affiché à côté du fournisseur de chaque livraison.</p>
       </div>
-      <figure class="shot" style="margin-top:16px"><img src="assets/img/silo-lots.jpg" width="1216" height="700" loading="lazy" alt="Tableau de calibration des lots de granulés : consommation, débit de la vis, kg par degré-jour et énergie relative"><figcaption>Chaque période entre deux niveaux connus : débit de la vis, consommation par degré-jour et énergie relative du lot.</figcaption></figure>
+      <figure class="shot" style="margin-top:16px"><img src="assets/img/silo-lots.jpg" width="1792" height="1496" loading="lazy" alt="Tableau de calibration des lots de granulés : consommation, débit de la vis, kg par degré-jour et énergie relative"><figcaption>Chaque période entre deux niveaux connus : débit de la vis, consommation par degré-jour et énergie relative du lot.</figcaption></figure>
 
       <div class="feature reverse">
         <div class="text">
           <h3>Tous les réglages de la chaudière</h3>
-          <p>Les 223 réglages connus sont décrits dans un catalogue : libellés FR/EN/DE, unités, bornes, aide, nom à l'écran du Touch.
-            Ils sont classés en <em>essentiels</em> et <em>avancés</em>, avec une recherche.</p>
+          <p>Les 223 réglages connus sont décrits dans un catalogue : libellés FR/EN/DE, unités, bornes, nom à l'écran du Touch.
+            Les plus importants portent une <strong>valeur conseillée, la valeur d'usine et une explication</strong> tirées du manuel ÖkoFEN,
+            avec un signal quand votre valeur sort du conseil.</p>
           <ul>
-            <li>Différences affichées avant l'écriture, valeur relue après, journal de chaque modification.</li>
-            <li>Profils de réglages, et relevé automatique chaque nuit pour garder l'historique des changements.</li>
+            <li>Pour chaque réglage : un bouton pour l'appliquer, un autre pour revenir à la valeur d'usine. Valeur relue après l'écriture, journal de chaque modification.</li>
+            <li>Programmes horaires (par jour ou identiques toute la semaine), programmes soirée et vacances.</li>
+            <li>Recommandations issues de la régulation : hystérésis d'ambiance, programme haché, limite de chauffe en réduit…</li>
           </ul>
         </div>
         <figure class="shot"><img src="assets/img/reglages.jpg" width="1600" height="1000" loading="lazy" alt="Liste des réglages de la chaudière avec plages et descriptions"></figure>
